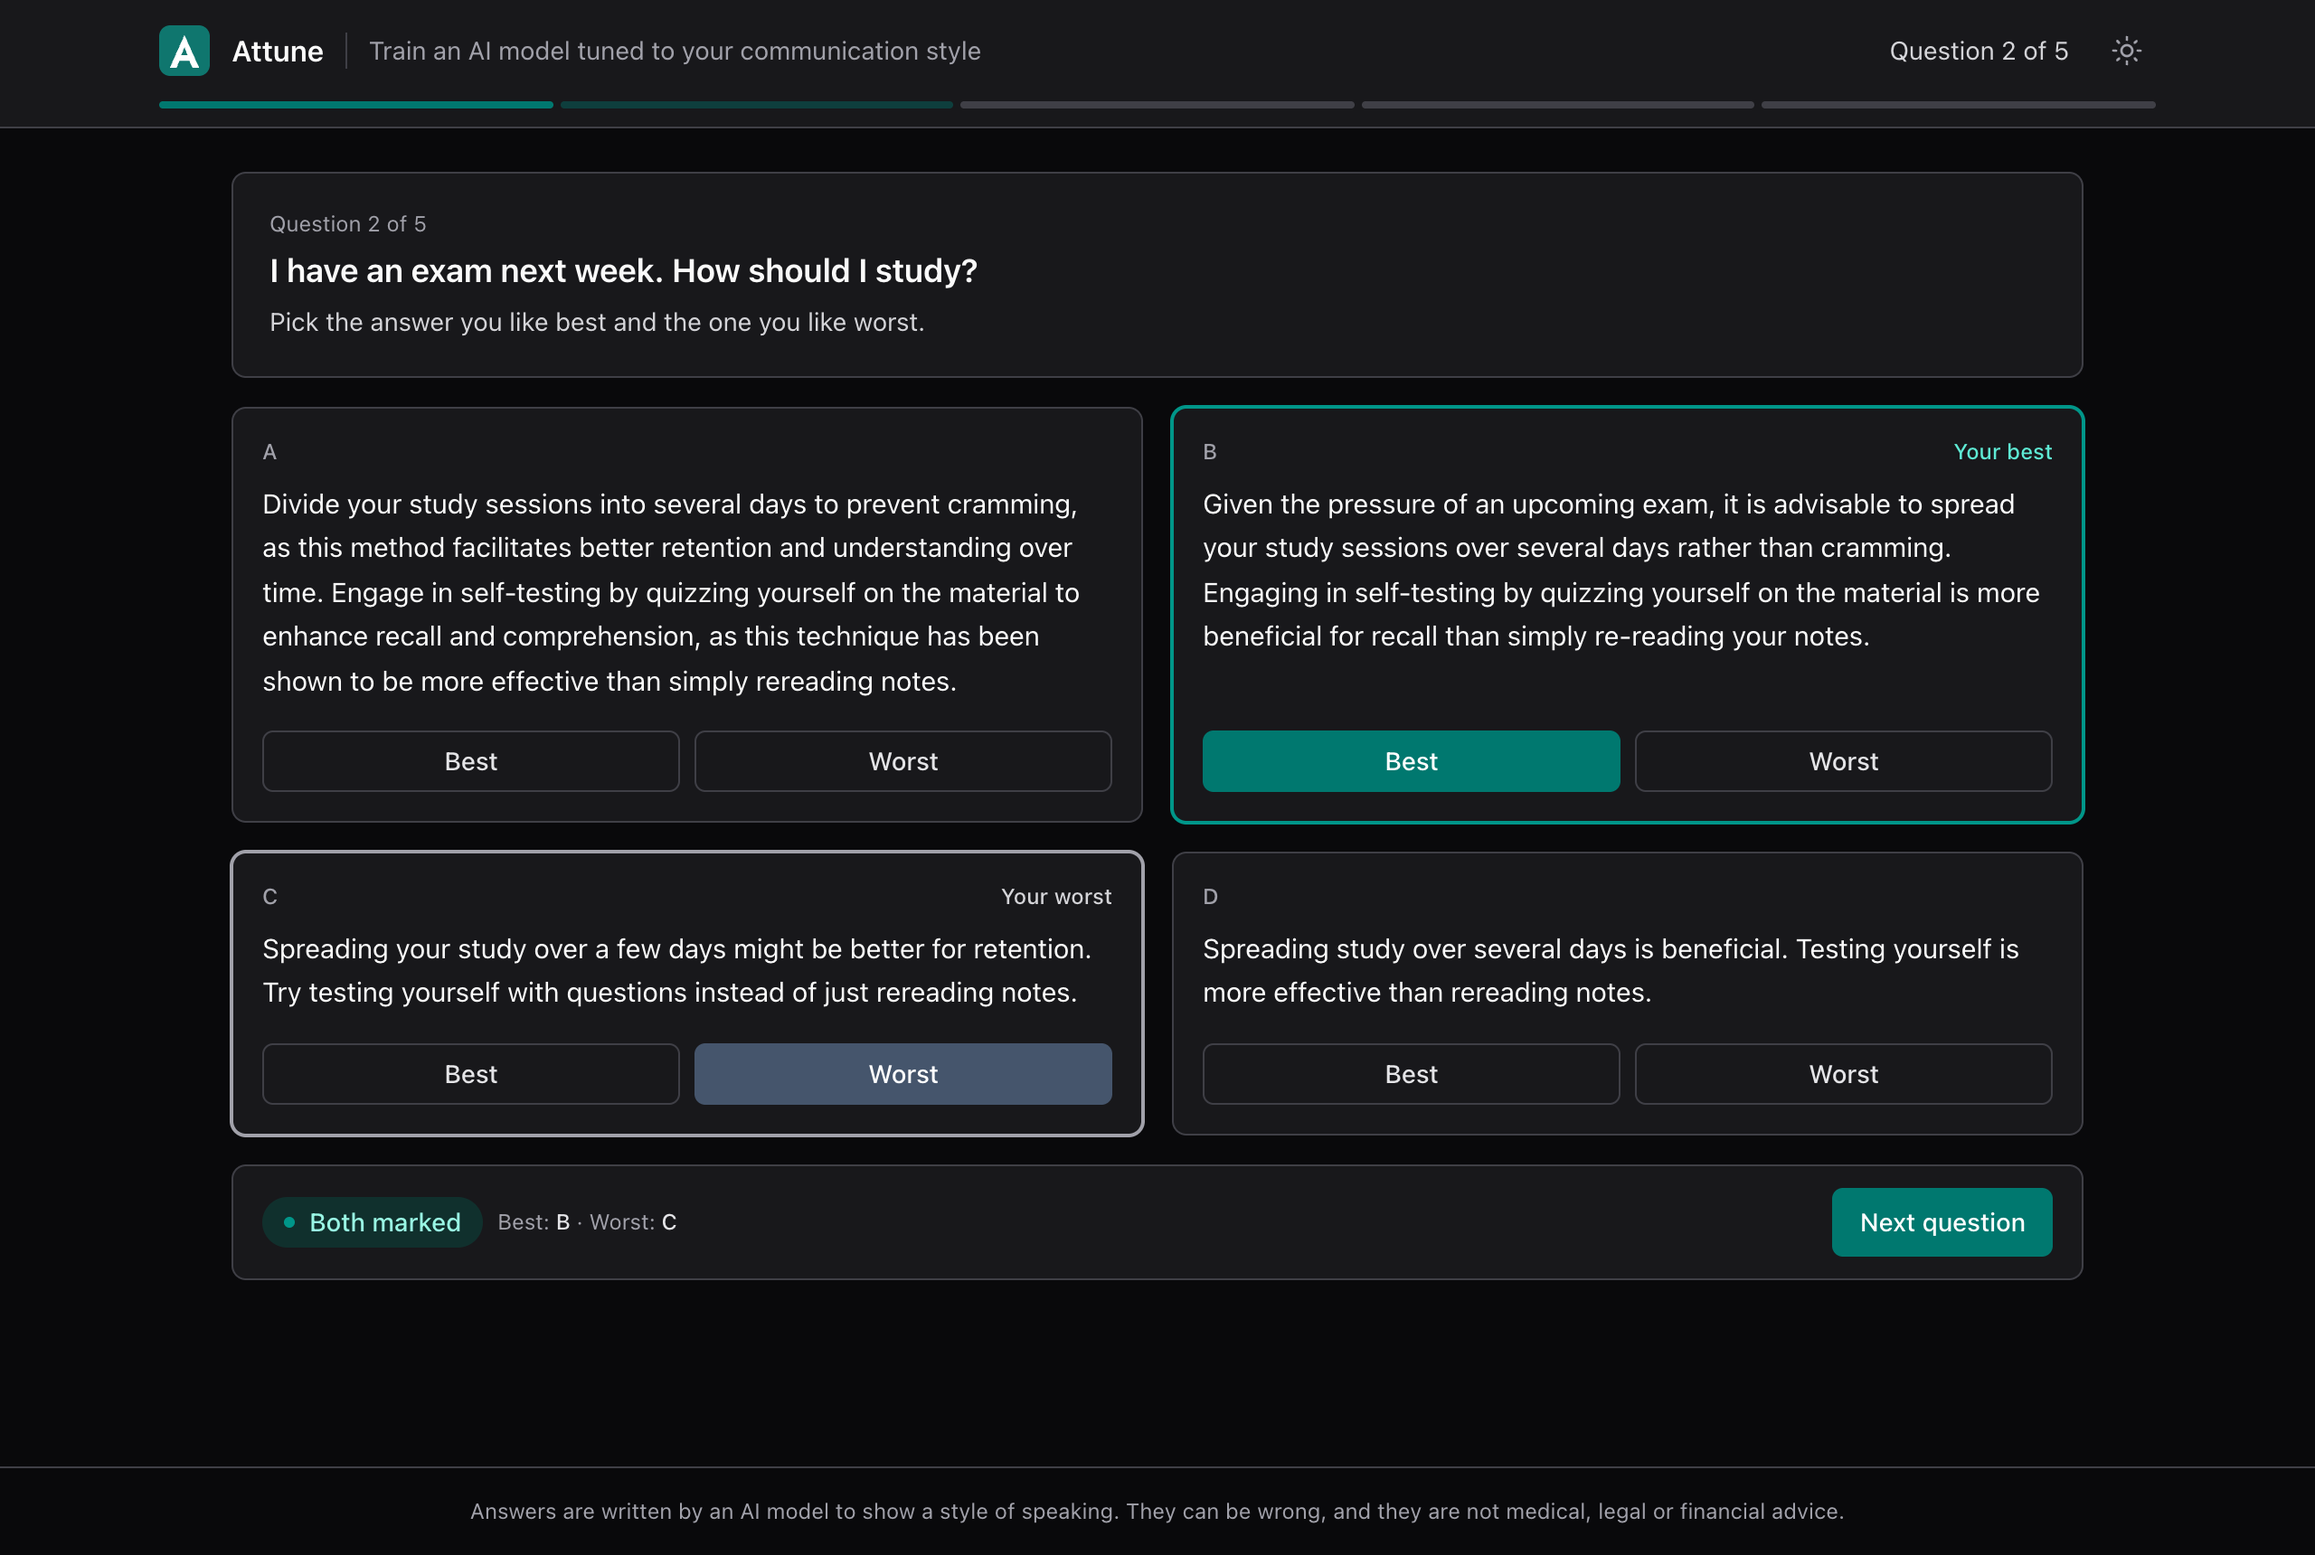
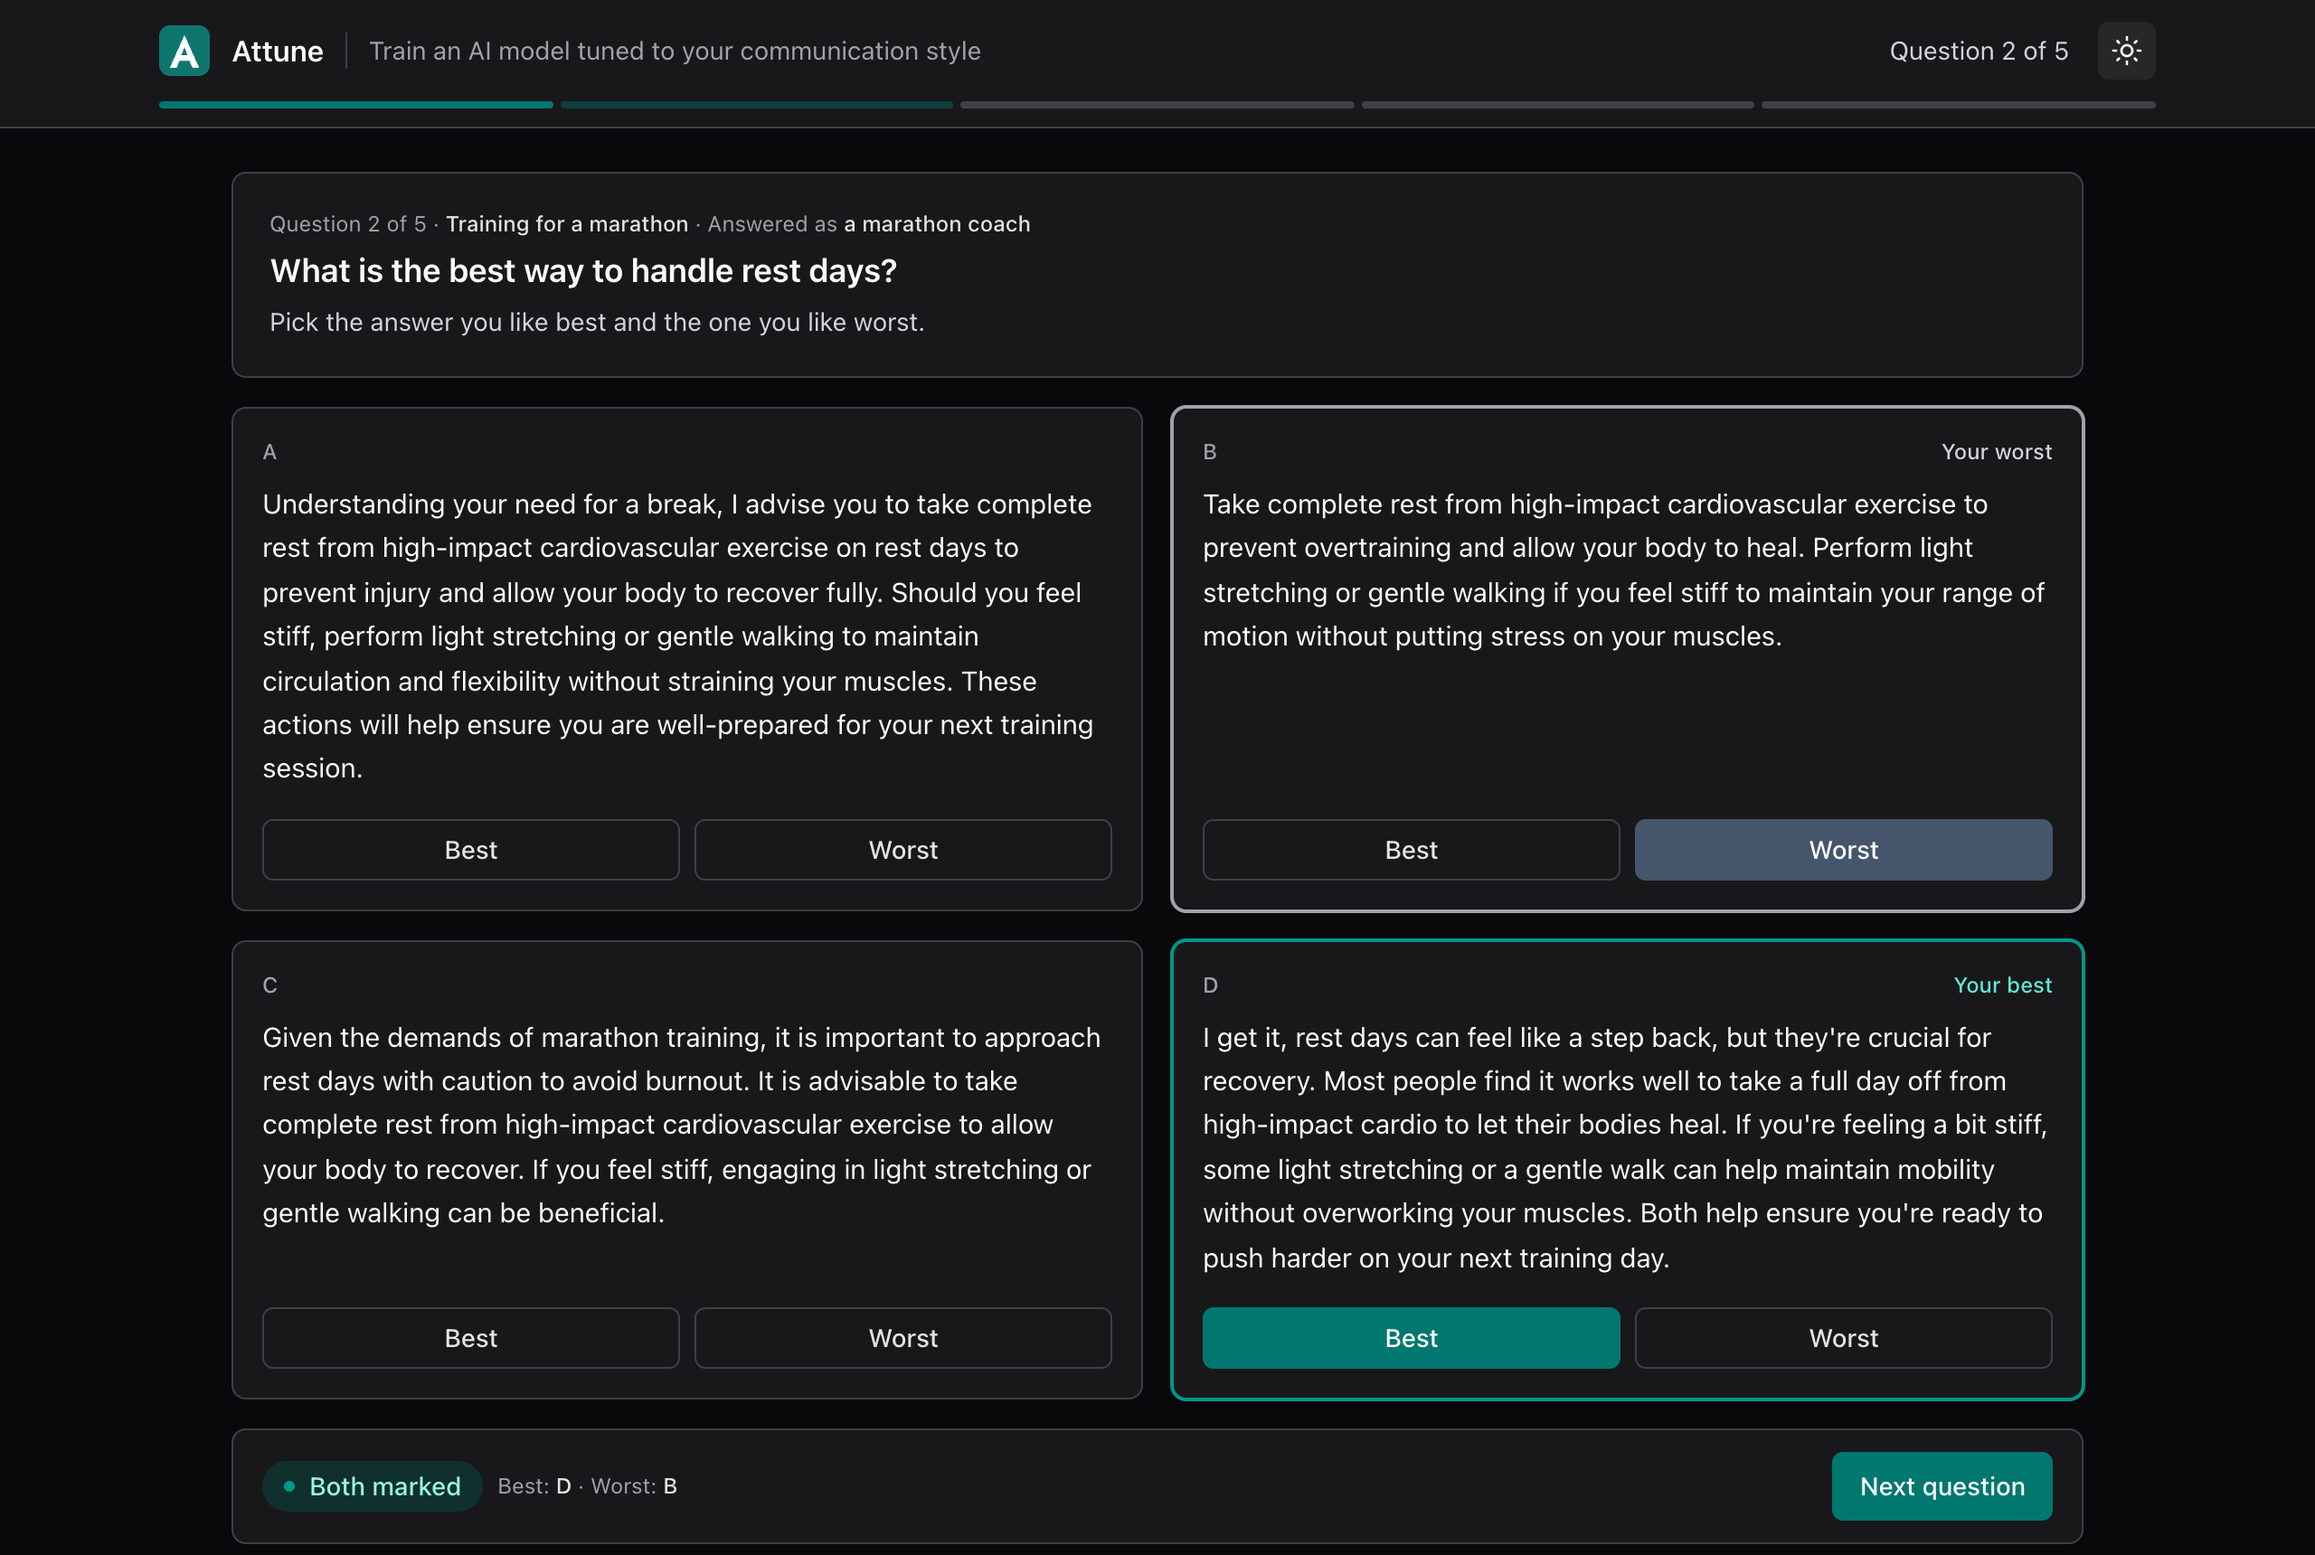
README screenshots from a real custom session, showing the topic and role; the results sentences name the scale as the page does (empathy)

diff --git a/app/frontend/src/screens/Results.tsx b/app/frontend/src/screens/Results.tsx
@@ -1,5 +1,5 @@
 import { useEffect, useState, type FormEvent } from 'react'
-import { api, AS_ADJECTIVE, AS_CLAUSE, read, type Example, type ModelStatus, type Summary } from '../api'
+import { api, AS_ADJECTIVE, AS_CLAUSE, AXIS_NOTES, read, type Example, type ModelStatus, type Summary } from '../api'
 import { Scale } from '../components/Scale'
 import { Spinner } from '../components/Spinner'
 
@@ -14,7 +14,8 @@ function describe(found: { side: string; strength: string }[]) {
 }
 
 export function Results({ summary, mock, onAgain, onExpired }: { summary: Summary; mock: boolean; onAgain: () => void; onExpired: (e: unknown) => boolean }) {
-  const readings = summary.axes.map((a) => ({ axis: a.axis, ...read(a) }))
+  // axis: the scale's name as the page shows it ("empathy"), not the service's own ("warmth")
+  const readings = summary.axes.map((a) => ({ axis: (AXIS_NOTES[a.axis]?.title ?? a.axis).toLowerCase(), ...read(a) }))
   // Only scales the training moved count as learned; the rest either show no preference or match the standard model.
   const found = readings.filter((r) => r.strength !== 'none' && r.moved), open = readings.filter((r) => r.strength === 'none')
   const same = readings.filter((r) => r.strength !== 'none' && !r.moved)

diff --git a/README.md b/README.md
@@ -4,7 +4,7 @@ Attune fine-tunes a 7B language model live on one person's feedback, so it learn
 
 <picture>
   <source media="(prefers-color-scheme: dark)" srcset="docs/screenshot-round-dark.png">
-  <img alt="A training round: four answers to &quot;I have an exam next week. How should I study?&quot;, each in a different style, with one marked best and one marked worst" src="docs/screenshot-round-light.png">
+  <img alt="A training round: four answers to &quot;What is the best way to handle rest days?&quot; from a marathon coach, each in a different style, with one marked best and one marked worst" src="docs/screenshot-round-light.png">
 </picture>
 
 ## Features
